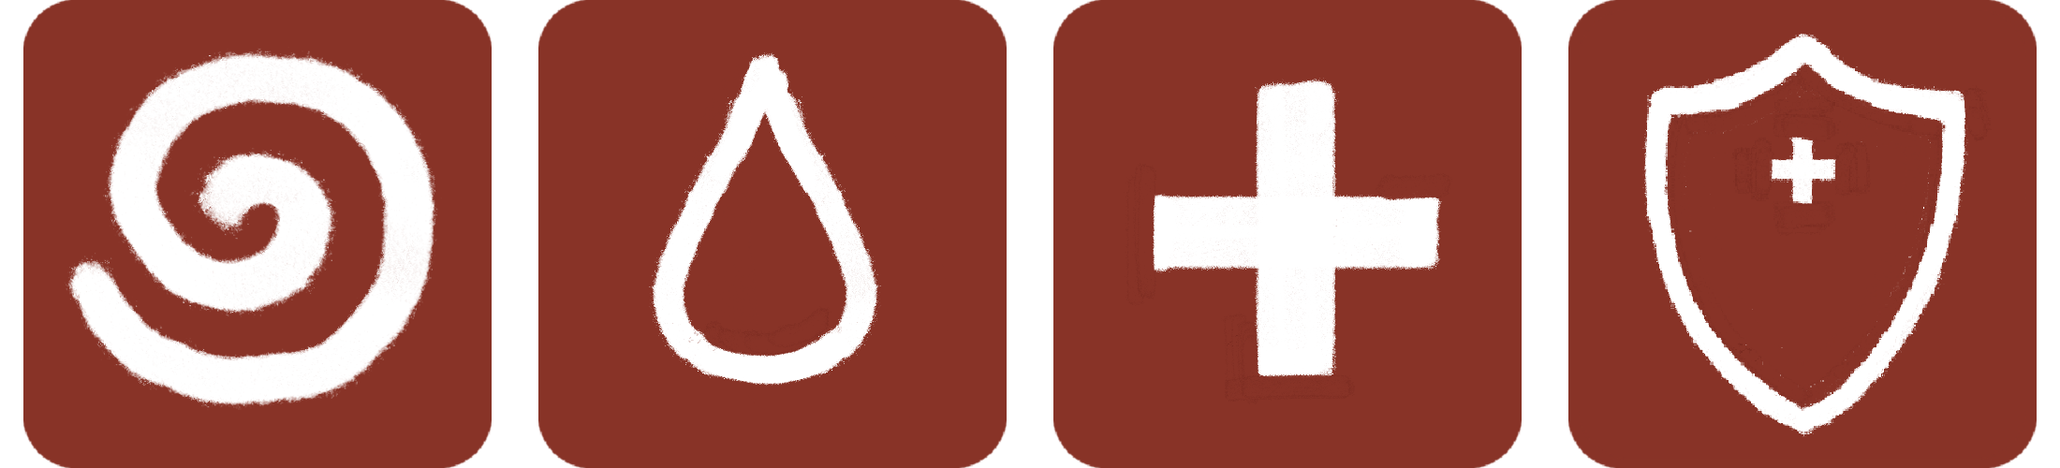
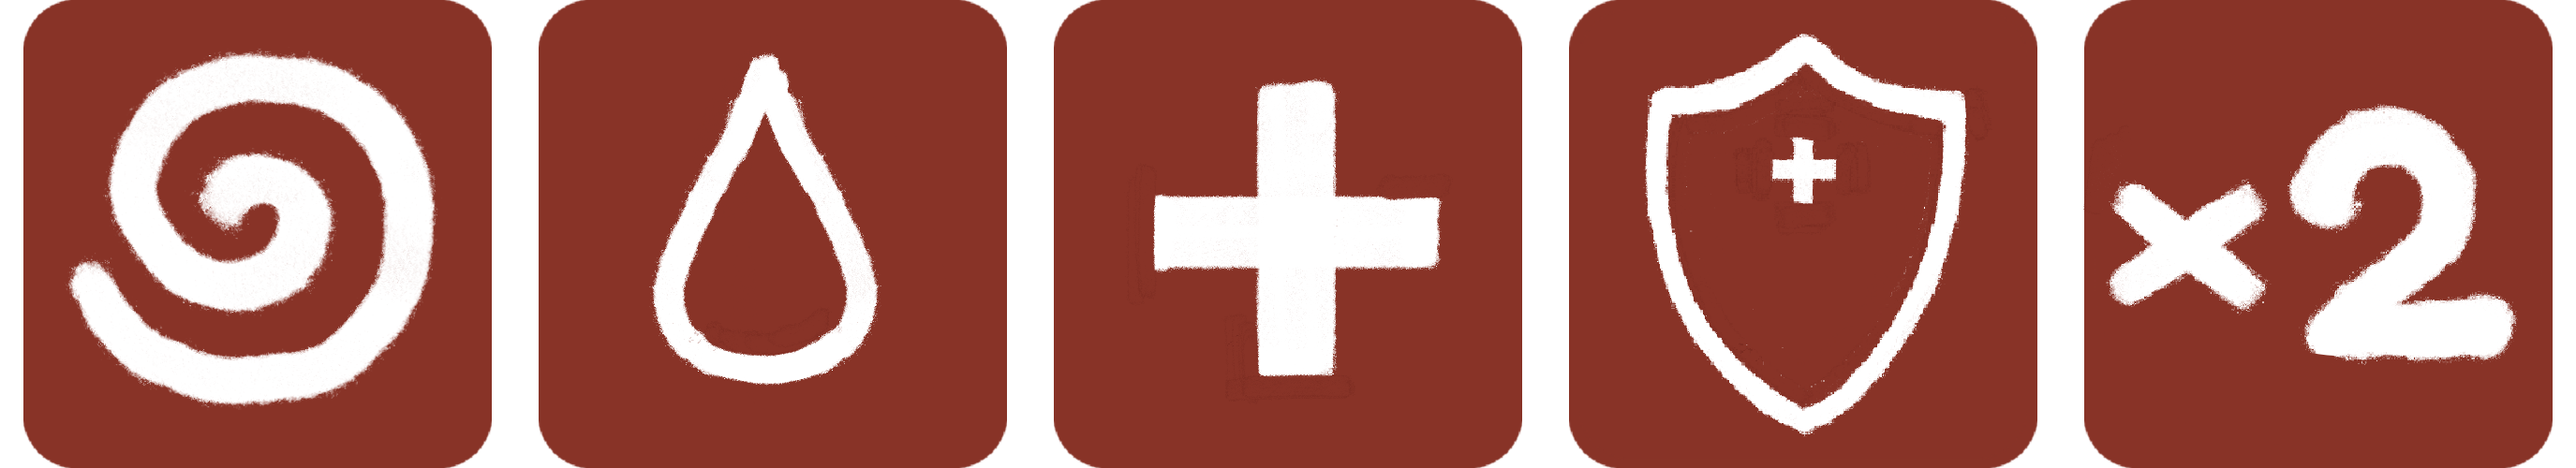
aughghhhhghh

diff --git a/js/battle.js b/js/battle.js
@@ -13,13 +13,19 @@ var statusEffects = [
     {
         name: 'Rallied',
         desc: 'Morale increases slightly per turn',
-        bg: `url(img/stati.png) ${width * 2}px 0 / cover`,
+        bg: `url(img/stati.png) -${width * 2}px 0 / cover`,
     },
     {
         name: 'Defending',
         desc: 'Takes reduced damage to morale',
-        bg: `url(img/stati.png) ${width}px 0 / cover`,
+        bg: `url(img/stati.png) -${width * 3}px 0 / cover`,
     },
+    {
+        name: 'Powered Up',
+        desc: 'Attacks hit twice',
+        bg: `url(img/stati.png) -${width * 4}px 0 / cover`,
+
+    }
 ]
 
 var turns = 5;
@@ -34,7 +40,7 @@ function toggle(mode) {
 
     next.style.display = 'none';
     next.style.transform = 'rotate(0deg)';
-    next.onclick = nextHandler;
+    next.addEventListener('click', nextHandler);
 
     if (!mode) {
         side.style.display = 'none';
@@ -50,11 +56,33 @@ function toggle(mode) {
 function nextHandler() {
 
     //temporary for testing
-    console.log(document.getElementById(active.name));
+    /* console.log(document.getElementById(active.name));
     document.getElementById(active.name).style.transform = 'scale(1)';
 
     active = (active === snowdrop) ? snowbell : snowdrop;
-    document.getElementById(active.name).style.transform = 'scale(1.1)';
+    document.getElementById(active.name).style.transform = 'scale(1.1)';*/
+
+    textbox.removeEventListener('click', nextHandler);
+
+    // Hand off to Snowbell
+    if (active === snowdrop) {
+        document.getElementById(active.name).style.transform = 'scale(1)';
+        active = snowbell;
+        document.getElementById(active.name).style.transform = 'scale(1.1)';
+        menu();
+
+    // Hand off to merchant
+    } else if (active === snowbell) {
+        document.getElementById(active.name).style.transform = 'scale(1)';
+        active = merchant;
+        merchantTurn();
+        return;
+
+    } else {
+        active = snowdrop;
+        document.getElementById(active.name).style.transform = 'scale(1.1)';
+        menu();
+    }
 
     // Clear out expired status effects
     for (let i = 0; i < statusEffects.length; i++) {
@@ -67,16 +95,6 @@ function nextHandler() {
                 document.getElementById(`${active.name}-turns-${i}`).innerHTML = active.effects[i];
         }
     }
-
-    menu();
-
-    /*if (active === snowdrop) {
-        active = snowbell;
-        menu();
-    } else {
-        console.log('opp turn');
-        menu();
-    }*/
 
     return;
 }
@@ -97,7 +115,6 @@ function menu(i = 1) {
 
     sideText.innerHTML = 'Select a command.';
     textbox.innerHTML = menu;
-    textbox.removeEventListener('click', nextHandler);
     toggle(1);
 
 }
@@ -151,6 +168,7 @@ function updateDmg(dmg, price, move, bonus = '') {
 
     let crit = '';
     console.log(active)
+
     // Crit
     if (Math.random() < active.crit) {
         dmg = Math.floor(dmg * 1.5);

diff --git a/js/player.js b/js/player.js
@@ -49,7 +49,7 @@ var snowdrop = {
                 return;
             }
 
-            let dmg = 0.9 * active.morale;
+            let dmg = Math.floor(active.morale * 0.9);
             const variance = randomNum(0, 5);
 
             dmg = (Math.random() < .5 && dmg > 15) ? dmg - variance : dmg + variance;
@@ -74,7 +74,7 @@ var snowdrop = {
             // Increase crit
             active.crit += 0.05;
 
-            let dmg = active.scale * active.morale;
+            let dmg = Math.floor(active.morale * active.scale);
             const variance = randomNum(0, 5);
             dmg = (Math.random() < .5 && dmg > 15) ? dmg - variance : dmg + variance;
             const str = `${active.name}'s critical rate increased.`
@@ -137,7 +137,13 @@ var snowbell = {
         cost: 0,
         use: function() {
 
-            const chance = (0.02 * (active.sp + 2) ** 2) + 0.005;
+            const chance = (0.02 * (active.sp + 2) ** 2) + 0.015;
+            // 1: 0.195
+            // 2: 0.335
+            // 3: 0.515
+            // 4: 0.735
+            // 5: 0.995
+
             const turns = 3;
 
             const prev = active.sp;
@@ -149,7 +155,7 @@ var snowbell = {
 
                 if (prev === 5) {
                     document.getElementById('side-text').style.display = 'block';
-                    document.getElementById('side-text').innerHTML = `<h4>(Missing on 5 SP has about a 0.5% chance of happening. Damn.)</h4>`;
+                    document.getElementById('side-text').innerHTML = `<h4>(Missing had about a 0.5% chance of happening. Damn.)</h4>`;
                 }
 
                 updateDmg(0, false, this.name);
@@ -170,9 +176,6 @@ var active = snowdrop;
 
 
 function haggle() {
-
-    const textbox = document.getElementById('textbox');
-    textbox.innerHTML = '';
 
     toggle(0);
 
@@ -204,7 +207,9 @@ function skill(poor = 3) {
     const next = document.getElementById('next');
     next.style.display = 'block';
     next.style.transform = 'rotate(90deg)';
-    next.onclick = menu;
+
+    next.removeEventListener('click', nextHandler);
+    next.addEventListener('click', menu);
 
     sideText.innerHTML = 'Mouse over a skill to see its effects.';
 

diff --git a/js/merchants.js b/js/merchants.js
@@ -5,10 +5,18 @@ var lulu = {
     minPrice: 5,
     scale: 0.05,
     crit: 0.1,
-    effects: [0, 0, 0, 0],
+    effects: [0, 0, 0, 0, 0],
 
-    move1: function() {
-        console.log('move');
+    move0: {
+        name: 'Burrow',
+        cost: 2,
+        use: function() {
+
+            typeText(`${merchant.name} used ${this.name}.\n${merchant.name} was silenced. ${merchant.name}'s morale and defense increased.`);
+
+            return;
+
+        }
     },
 };
 
@@ -16,8 +24,29 @@ var merchant = lulu;
 
 // Move to opening battle window later
 
+function merchantTurn() {
+    toggle(0);
+    animateMove();
+     merchant['move0'].use();
+
+
+    const next = document.getElementById('next');
+    const textbox = document.getElementById('textbox');
+    textbox.removeEventListener('click', nextHandler);
+    textbox.removeAttribute('onclick');
+
+    next.onclick = () => {console.log('hi');};
+    textbox.onclick = () => {console.log('hey');};
+
+
+
+    return;
+}
+
 document.addEventListener('DOMContentLoaded', function() {
     menu(0);
+
+    document.getElementById('next').addEventListener('click', nextHandler);
 
     renderDisplay('stand');
     renderDisplay('merchant');
@@ -62,4 +91,19 @@ function renderDisplay(name) {
     const display = document.createElement('div');
     display.id = name;
     document.getElementById('display').append(display);
+}
+
+
+function animateMove() {
+    const merchant = document.getElementById('merchant');
+    const transformY = 40;
+
+    merchant.style.transform = `translateY(-${transformY}px)`;
+
+    merchant.style.transitionProperty = 'all';
+    merchant.style.transitionDuration = '0.5s';
+
+    setTimeout( () => { merchant.style.transform = 'translateY(0px)'; }, 150);
+
+    return;
 }

diff --git a/js/auxiliary.js b/js/auxiliary.js
@@ -34,6 +34,7 @@ function typeText(str, i = 0) {
         setTimeout(() => ( typeText(str, i + 1) ), speed);
     } else {
         const next = document.getElementById('next');
+        next.addEventListener('click', nextHandler);
         next.style.display = 'block';
 
         textbox.addEventListener('click', nextHandler);

diff --git a/index.html b/index.html
@@ -60,7 +60,7 @@
         <div id='textbox'>
         </div>
 
-        <div id='next' onclick='nextHandler()'></div>
+        <div id='next'></div>
 
         <!--display -->
         <div id='display'></div>
